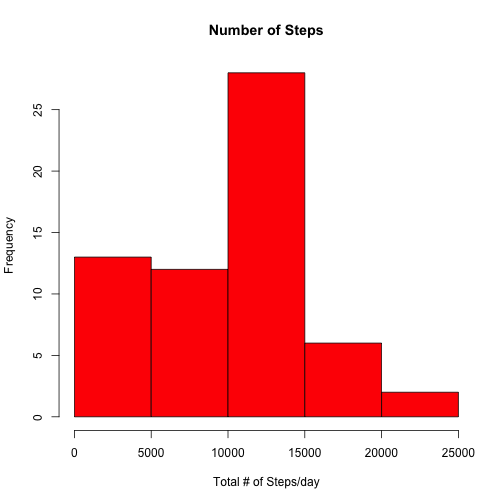
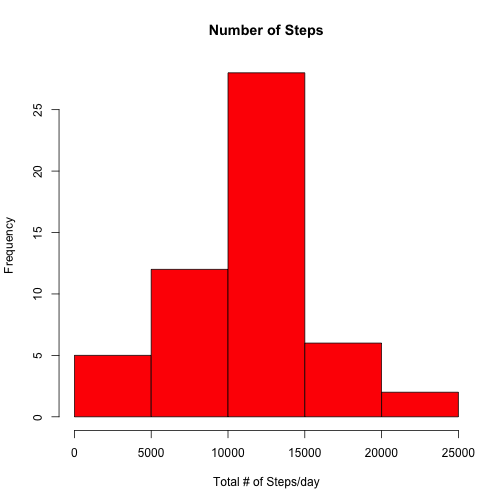
Rev 2 corrections
Fixed one computation mistake and clarified text.

Changed region(s): [[0.1488, 0.506, 0.3274, 0.7143]]

diff --git a/PA1_template.html b/PA1_template.html
@@ -225,20 +225,22 @@ opts_chunk$set(echo = TRUE)
 
 <pre><code class="r">setwd(&quot;~/Desktop/Rwd/ReprodblResrch/RepResData&quot;)
 pa1data &lt;- read.csv(&quot;activity.csv&quot;)
-steps.day &lt;- rowsum(pa1data$steps, pa1data$date, na.rm = TRUE)
+steps.day &lt;- rowsum(pa1data$steps, pa1data$date)
 hist(steps.day, xlab = &quot;Total # of Steps/day&quot;, main = &quot;Number of Steps&quot;, col = &quot;red&quot;)
 </code></pre>
 
[2 lines of base64/hex data omitted]
 
 <h4>Mean and median of total # of steps/day</h4>
 
-<pre><code class="r">steps.day.mean &lt;- format(mean(steps.day), nsmall = 3, big.mark = &quot;,&quot;)
-steps.day.median &lt;- prettyNum(median(steps.day), big.mark = &quot;,&quot;)
+<p>Calculate mean and median of total number of steps/day [ignore all NA values]</p>
+
+<pre><code class="r">steps.day.mean &lt;- format(mean(steps.day, na.rm = TRUE), nsmall = 3, big.mark = &quot;,&quot;)
+steps.day.median &lt;- prettyNum(median(steps.day, na.rm = TRUE), big.mark = &quot;,&quot;)
 </code></pre>
 
 <p>Mean and median of the total number of steps taken per day are
-9,354.230 and 10,395 respectively.</p>
+10,766.189 and 10,765 respectively.</p>
 
 <h4>Average daily activity pattern</h4>
 
@@ -300,7 +302,7 @@ hist(stepsnew.day, xlab = &quot;Total # of Steps/day&quot;, main = &quot;Number 
 stepsnew.day.median &lt;- format(median(stepsnew.day), nsmall = 3, big.mark = &quot;,&quot;)
 </code></pre>
 
-<p>Mean and median of the total number of steps taken per day using the new data set are 10,766.189 and 10,766.189 respectively. As a comparison, the same values for the original data with the &ldquo;NA&rdquo; values were 9,354.230 and 10,395 respectively. The replacement of &ldquo;NA&rdquo; values with the interval mean values has smoothed out the distribution and increased the mean and median values.</p>
+<p>Mean and median of the total number of steps taken per day using the new data set are 10,766.189 and 10,766.189 respectively. As a comparison, the same values for the original data with the &ldquo;NA&rdquo; values were 10,766.189 and 10,765 respectively. Since we replaced the missing values with the mean values for each interval, the new mean and median are very close to the original values.</p>
 
 <h4>Weekday/weekend activity patterns</h4>
 

diff --git a/PA1_template.md b/PA1_template.md
@@ -21,7 +21,7 @@ opts_chunk$set(echo = TRUE)
 ```r
 setwd("~/Desktop/Rwd/ReprodblResrch/RepResData")
 pa1data <- read.csv("activity.csv")
-steps.day <- rowsum(pa1data$steps, pa1data$date, na.rm = TRUE)
+steps.day <- rowsum(pa1data$steps, pa1data$date)
 hist(steps.day, xlab = "Total # of Steps/day", main = "Number of Steps", col = "red")
 ```
 
@@ -29,13 +29,16 @@ hist(steps.day, xlab = "Total # of Steps/day", main = "Number of Steps", col = "
 
 #### Mean and median of total # of steps/day
 
+Calculate mean and median of total number of steps/day [ignore all NA values]
+
+
 ```r
-steps.day.mean <- format(mean(steps.day), nsmall = 3, big.mark = ",")
-steps.day.median <- prettyNum(median(steps.day), big.mark = ",")
+steps.day.mean <- format(mean(steps.day, na.rm = TRUE), nsmall = 3, big.mark = ",")
+steps.day.median <- prettyNum(median(steps.day, na.rm = TRUE), big.mark = ",")
 ```
 
 Mean and median of the total number of steps taken per day are
-9,354.230 and 10,395 respectively.
+10,766.189 and 10,765 respectively.
 
 #### Average daily activity pattern
 
@@ -101,7 +104,7 @@ stepsnew.day.mean <- format(mean(stepsnew.day), nsmall = 3, big.mark = ",")
 stepsnew.day.median <- format(median(stepsnew.day), nsmall = 3, big.mark = ",")
 ```
 
-Mean and median of the total number of steps taken per day using the new data set are 10,766.189 and 10,766.189 respectively. As a comparison, the same values for the original data with the "NA" values were 9,354.230 and 10,395 respectively. The replacement of "NA" values with the interval mean values has smoothed out the distribution and increased the mean and median values.
+Mean and median of the total number of steps taken per day using the new data set are 10,766.189 and 10,766.189 respectively. As a comparison, the same values for the original data with the "NA" values were 10,766.189 and 10,765 respectively. Since we replaced the missing values with the mean values for each interval, the new mean and median are very close to the original values.
 
 #### Weekday/weekend activity patterns
 
